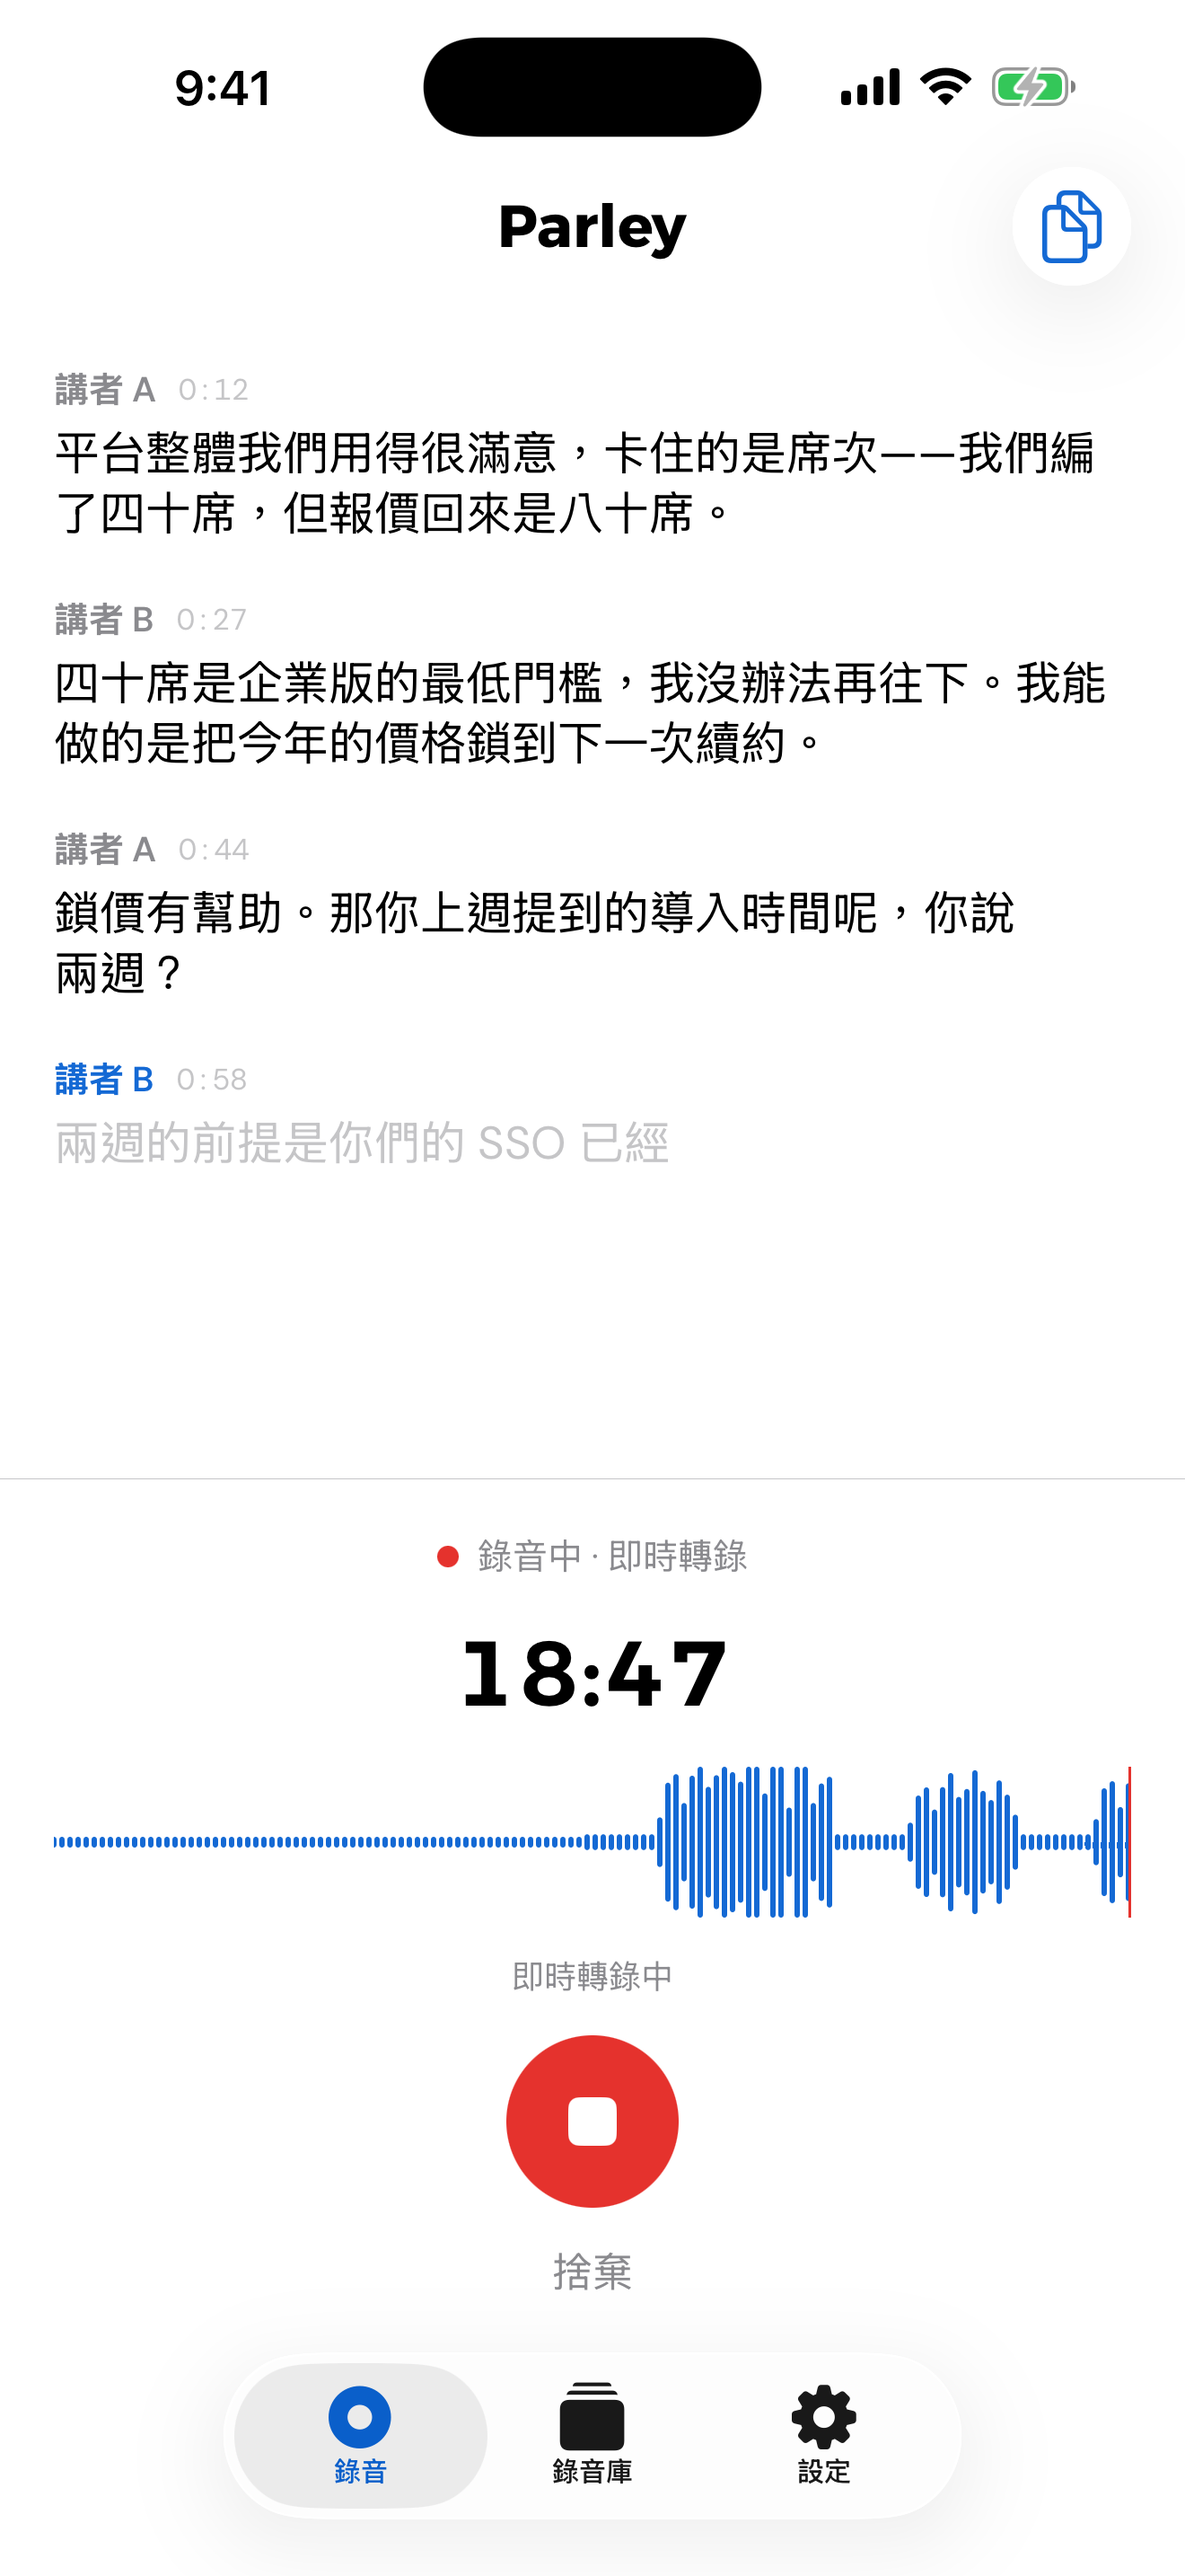
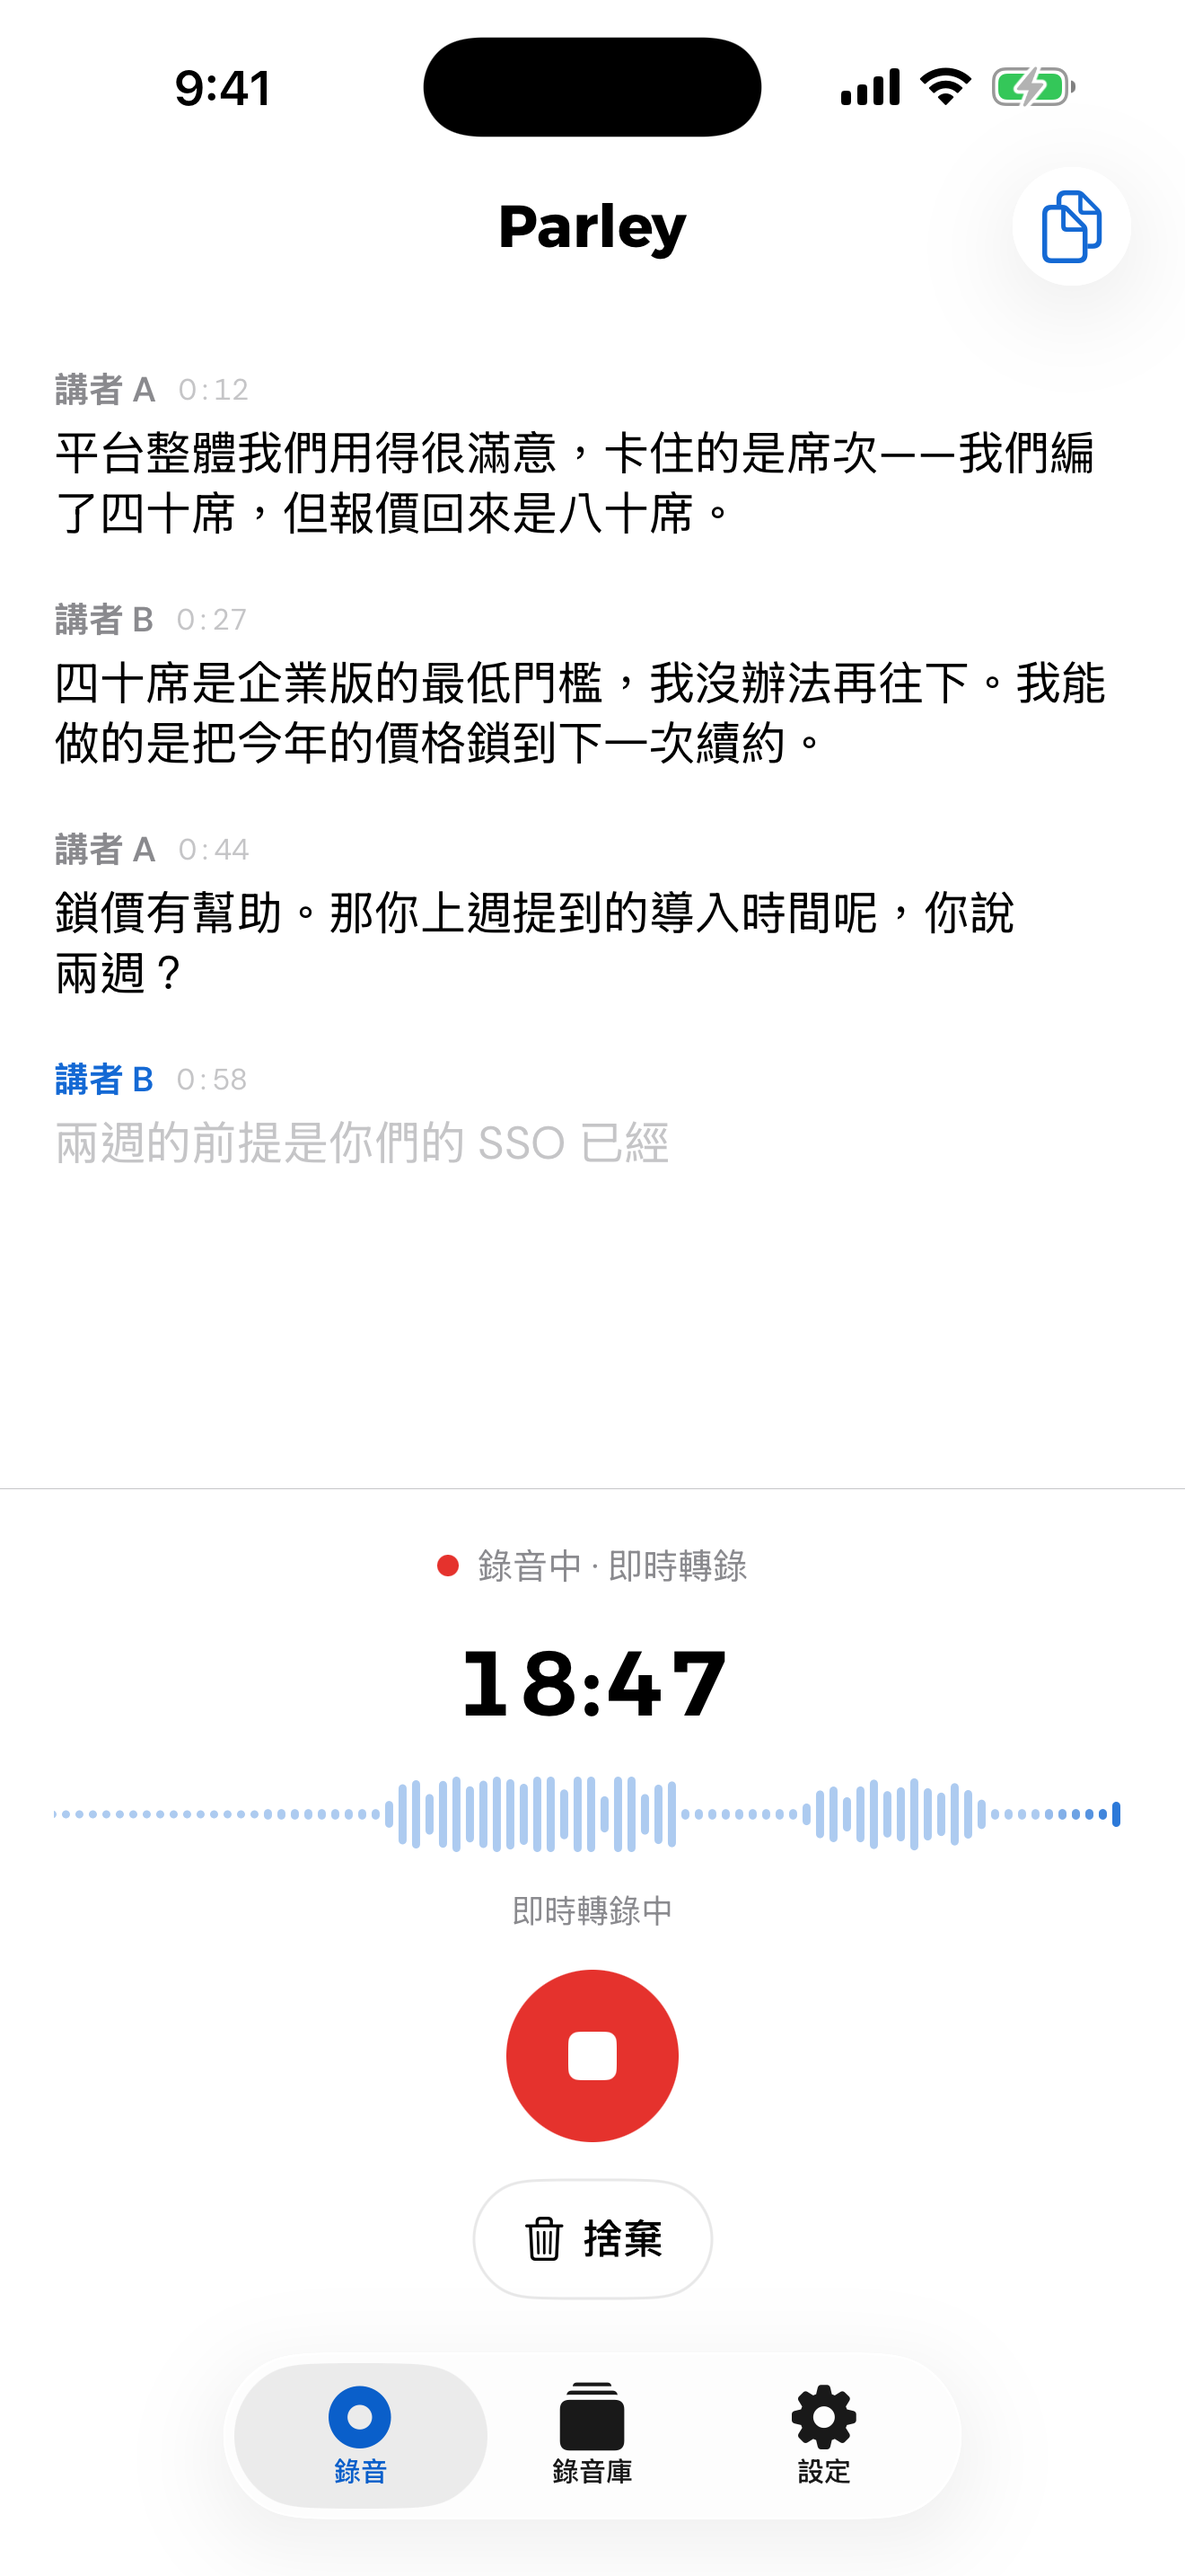
[chore] iOS 1.14 (build 26): the fixes for what 1.13 shipped with (#389)
* [chore] iOS 1.14 (build 26): the transcript scrolls, and re-transcribe runs

1.13 reached the store on 15 September with five user-visible defects that
#381 fixes. This is that release.

Screenshots re-captured in both locales: 02-record carries the rebuilt
discard control, which was a line of grey text and is now an outlined
capsule with a target you can hit.

* [docs] What's New for iOS 1.14, in both locales

A fix-only release, and the copy says so rather than dressing the repairs
up as features — each paragraph names what was broken and what it does
now, because a user who hit the stuck spinner or the rename that would
not stick should be able to recognise their own problem in the list.

---------

Changed region(s): [[0.3106, 0.5896, 0.9629, 0.8999]]

diff --git a/ios/AppStore/metadata/zh-Hant.md b/ios/AppStore/metadata/zh-Hant.md
@@ -57,6 +57,20 @@ Parley iOS 版對平台的限制講得很直白。iOS 不開放任何第三方 A
 
 Parley 採用 Apache-2.0 授權。原始碼：github.com/pathorsAI/parley
 
+## What's New — 1.14
+
+這一版全是修正，而且大多是 1.13 做錯的事。
+
+重新轉錄現在真的會轉錄。它以前會顯示正在進行，其實什麼都沒在跑，而且除了強制關掉 Parley 之外沒有辦法重試——鎖屏中斷的工作就這樣沒了。現在只要切回 Parley 它就會自己接下去；還在等的工作會老實說它在等，而不是轉一個沒有意義的圈圈，旁邊還有一顆「立刻開始」。一個壞掉的工作也不會再把排在後面的錄音全部堵住，而你要求的重跑只會算一次額度。
+
+逐字稿可以捲動了。左右兩側各有一條看不見的長條——就是按住會用 2 倍速播放的那個——它們在捲動抵達頁面之前就把觸控攔了下來。現在它們一樣能按住加速，但不會再吃掉別的操作。
+
+拖曳時間軸，逐字稿會跟著走，暫停時也一樣——而暫停正是你會拖到某一點、想看看那裡在講什麼的時候。
+
+你打的名字，就是存下來的名字。以前從歸檔卡片改名，建議的名稱會蓋回你打的，除非你剛好先按了「不用建議」。接受同一個新資料夾兩次，也不會再建出兩個。還有，你事後改過名的錄音，不會再在幾小時後被一個還記著原始名稱的背景工作蓋掉。
+
+「捨棄」是一顆看得見的按鈕了。錄音進行中，它以前是一行灰字，讀起來像說明文；現在它是個真正的控制項，而且按得到。
+
 ## What's New — 1.13
 
 錄音可以在手機上回放了。在這支手機錄的會議會留在手機上（設定 → 保留音檔在手機上，預設開啟），其他裝置的錄音則可以從列表右滑、長按選單或逐字稿頁下載。打開一場錄音，標題下方就是播放器：整場會議的波形，拖著它就能跳段——拖曳時把手指往上抬，可以調得更細——0.75× 到 2× 的倍速，按住逐字稿的邊緣則在按住期間以 2 倍速播放。逐字稿會跟著聲音走、標出現在是誰在講；點時間碼，或直接點某一段的文字，聲音就跳到那裡。

diff --git a/ios/AppStore/metadata/en-US.md b/ios/AppStore/metadata/en-US.md
@@ -83,6 +83,37 @@ Account → Delete Account. The privacy policy has the full detail.
 
 Parley is Apache-2.0 licensed. Source: github.com/pathorsAI/parley
 
+## What's New — 1.14
+
+Everything here is a fix, and most of it is something 1.13 got wrong.
+
+Re-transcribe now re-transcribes. It would say it was working when nothing
+was running, and there was no way to retry short of force-quitting Parley —
+a job interrupted by locking the phone was simply lost. It now picks itself
+back up when you come back to Parley, a job that is waiting says so instead
+of showing a spinner that means nothing, and there is a Start now button
+beside it. One failed job no longer blocks every recording queued behind it,
+and a re-run you asked for is only counted against your limit once.
+
+The transcript scrolls again. Two invisible strips down the left and right
+edges — the ones that play at 2× while you hold them — were catching the
+scroll before it reached the page. They still hold 2×, and they no longer
+swallow anything else.
+
+Dragging the timeline moves the transcript with it, including while paused,
+which is exactly when you are dragging to a point to read what was said
+there.
+
+A name you type is the name that gets saved. Renaming from the filing card
+used to put the suggested name back over yours unless you happened to
+dismiss the suggestion first. Accepting the same new folder twice no longer
+creates it twice. And a recording you renamed is no longer overwritten hours
+later by a background job still holding the name it had at the start.
+
+Discard is a button you can see. While recording it was a line of grey text
+that read like a caption; it is a real control now, with a target you can
+actually hit.
+
 ## What's New — 1.13
 
 Recordings can be played back on the phone. Meetings recorded here now stay
